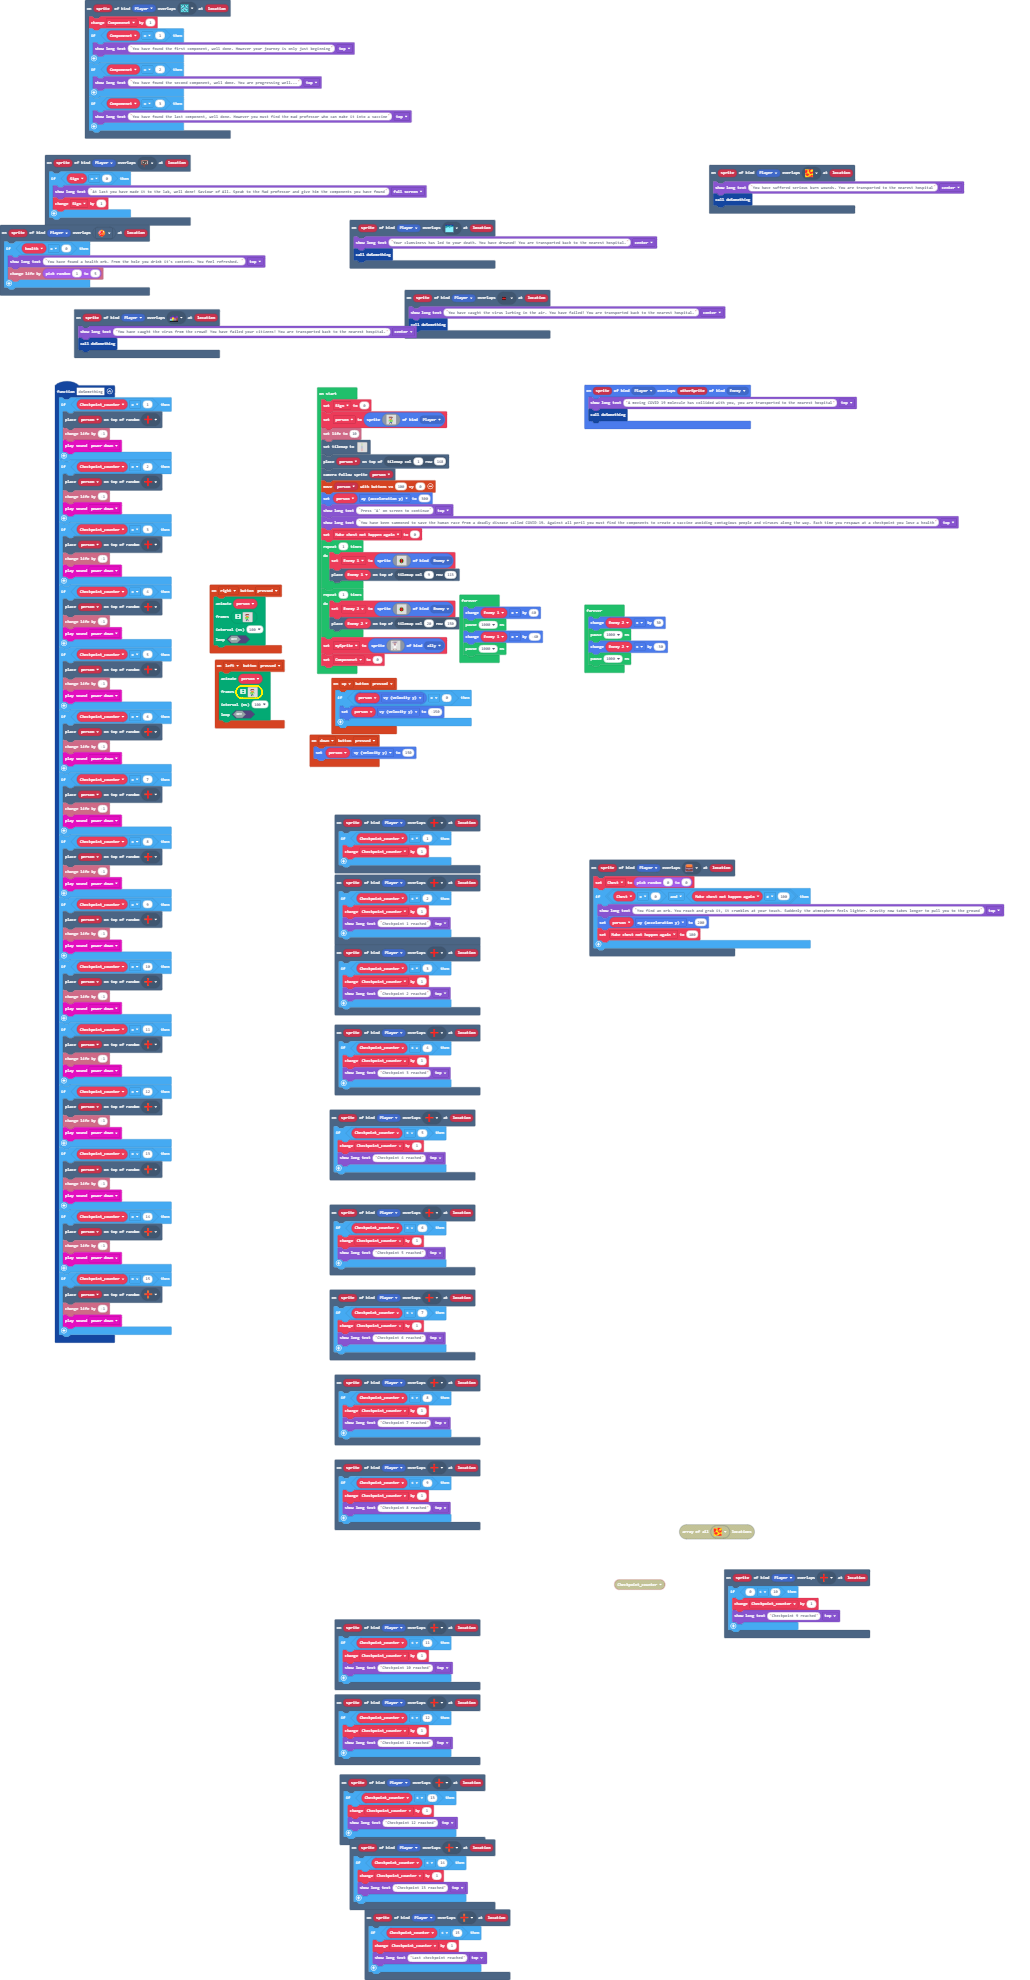
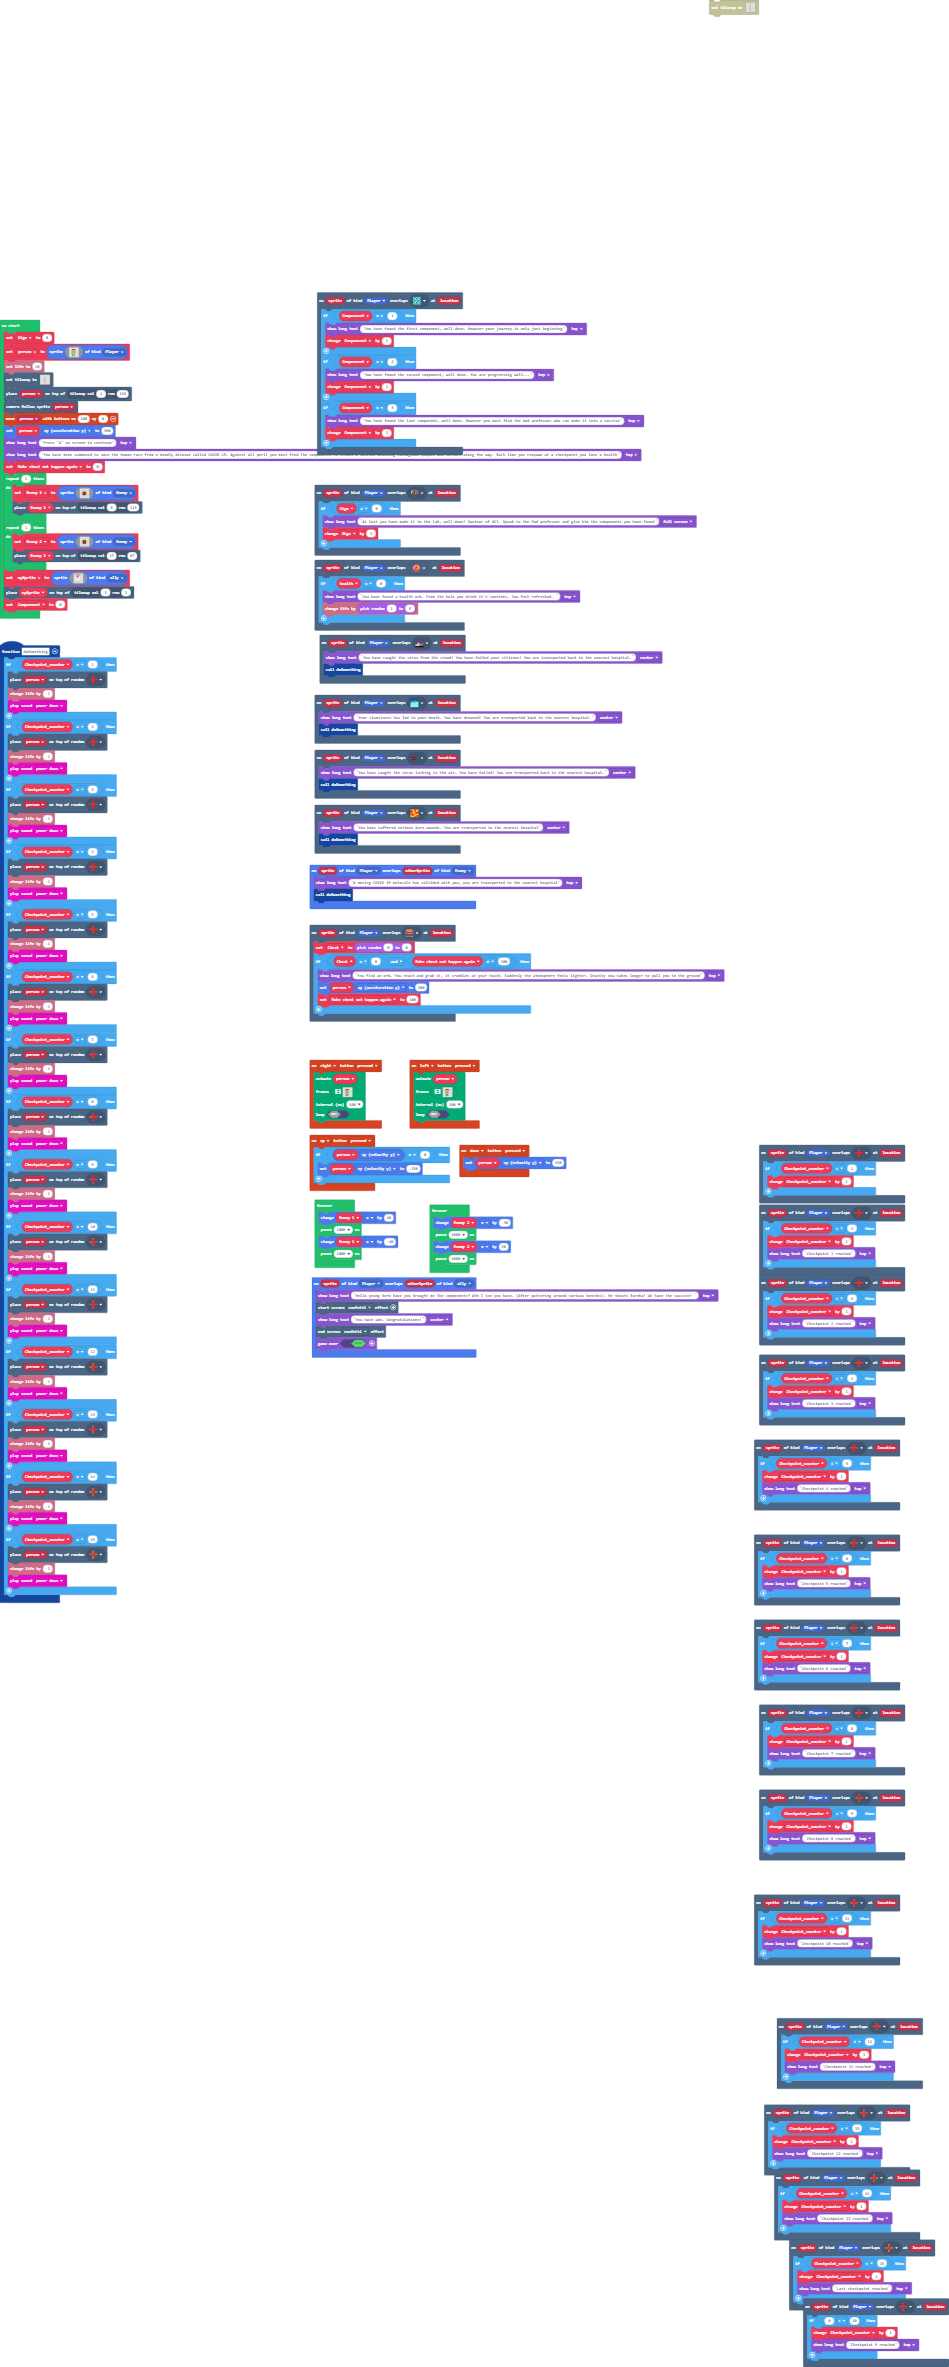
last changes apart from health

diff --git a/tilemap.g.ts b/tilemap.g.ts
@@ -144,6 +144,25 @@ namespace myTiles {
 .....2.2............
 2222.2.2............
 `, [myTiles.transparency16,sprites.dungeon.floorLight4,sprites.dungeon.floorLight0,sprites.builtin.crowd2], TileScale.Sixteen);
+            case "level1":
+            case "level1":return tiles.createTilemap(hex`1000100000000000000000000000000000000000000000000000000000000000000000000000000000000000000000000000000000000000000000000000000000000000000000000000000000000000000000000000000000000000000000000000000000000000000000000000000000000000000000000000000000000000000000000000000000000000000000000000000000000000000000000000000000000000000000000000000000000000000000000000000000000000000000000000000000000000000000000000000000000000000000000000000000000000000000000000000000000000000000000000000000000000000000000000000000000000`, img`
+. . . . . . . . . . . . . . . . 
+. . . . . . . . . . . . . . . . 
+. . . . . . . . . . . . . . . . 
+. . . . . . . . . . . . . . . . 
+. . . . . . . . . . . . . . . . 
+. . . . . . . . . . . . . . . . 
+. . . . . . . . . . . . . . . . 
+. . . . . . . . . . . . . . . . 
+. . . . . . . . . . . . . . . . 
+. . . . . . . . . . . . . . . . 
+. . . . . . . . . . . . . . . . 
+. . . . . . . . . . . . . . . . 
+. . . . . . . . . . . . . . . . 
+. . . . . . . . . . . . . . . . 
+. . . . . . . . . . . . . . . . 
+. . . . . . . . . . . . . . . . 
+`, [myTiles.transparency16], TileScale.Sixteen);
             case "level_2":
[1 lines of base64/hex data omitted]
 22.2.2.2.2.2.2222222
@@ -212,7 +231,7 @@ namespace myTiles {
 22......2222.......2
 2..............222.2
 2222....22.........2
-2........22222222222
+2........22222222.22
 222222.2..2.......22
 2....2.22.........22
 22.2.2.222..22222222

diff --git a/main.ts b/main.ts
@@ -18,6 +18,13 @@ controller.up.onEvent(ControllerButtonEvent.Pressed, function () {
         person.vy = -150
     }
 })
+sprites.onOverlap(SpriteKind.Player, SpriteKind.ally, function (sprite, otherSprite) {
+    game.showLongText("Hello young hero have you brought me the components? Ahh I see you have. (After pottering around various benches). He shouts Eureka! We have the vaccine! ", DialogLayout.Top)
+    effects.confetti.startScreenEffect()
+    game.showLongText("You have won. Congratulations!", DialogLayout.Center)
+    effects.confetti.endScreenEffect()
+    game.over(true)
+})
 scene.onOverlapTile(SpriteKind.Player, assets.tile`tile14`, function (sprite, location) {
     if (Checkpoint_counter < 5) {
         Checkpoint_counter += 1
@@ -405,15 +412,17 @@ scene.onOverlapTile(SpriteKind.Player, assets.tile`tile9`, function (sprite, loc
     }
 })
 scene.onOverlapTile(SpriteKind.Player, sprites.dungeon.collectibleInsignia, function (sprite, location) {
-    Componenet += 1
     if (Componenet == 1) {
         game.showLongText("You have found the first component, well done. However your journey is only just beginning", DialogLayout.Top)
+        Componenet += 1
     }
     if (Componenet == 2) {
         game.showLongText("You have found the second component, well done. You are progressing well...", DialogLayout.Top)
+        Componenet += 1
     }
     if (Componenet == 3) {
         game.showLongText("You have found the last component, well done. However you must find the mad professor who can make it into a vaccine", DialogLayout.Top)
+        Componenet += 1
     }
 })
 sprites.onOverlap(SpriteKind.Player, SpriteKind.Enemy, function (sprite, otherSprite) {
@@ -496,9 +505,10 @@ for (let index = 0; index < 1; index++) {
         . . . . . . . . . . . . . . . . 
         . . . . . . . . . . . . . . . . 
         `, SpriteKind.Enemy)
-    tiles.placeOnTile(Enemy_2, tiles.getTileLocation(20, 150))
+    tiles.placeOnTile(Enemy_2, tiles.getTileLocation(17, 67))
 }
 let mySprite = sprites.create(assets.image`professor`, SpriteKind.ally)
+tiles.placeOnTile(mySprite, tiles.getTileLocation(3, 2))
 Componenet = 0
 forever(function () {
     Enemy_1.x += 40
@@ -507,8 +517,8 @@ forever(function () {
     pause(1000)
 })
 forever(function () {
-    Enemy_2.x += 30
-    pause(1000)
     Enemy_2.x += -30
+    pause(1000)
+    Enemy_2.x += 30
     pause(1000)
 })
